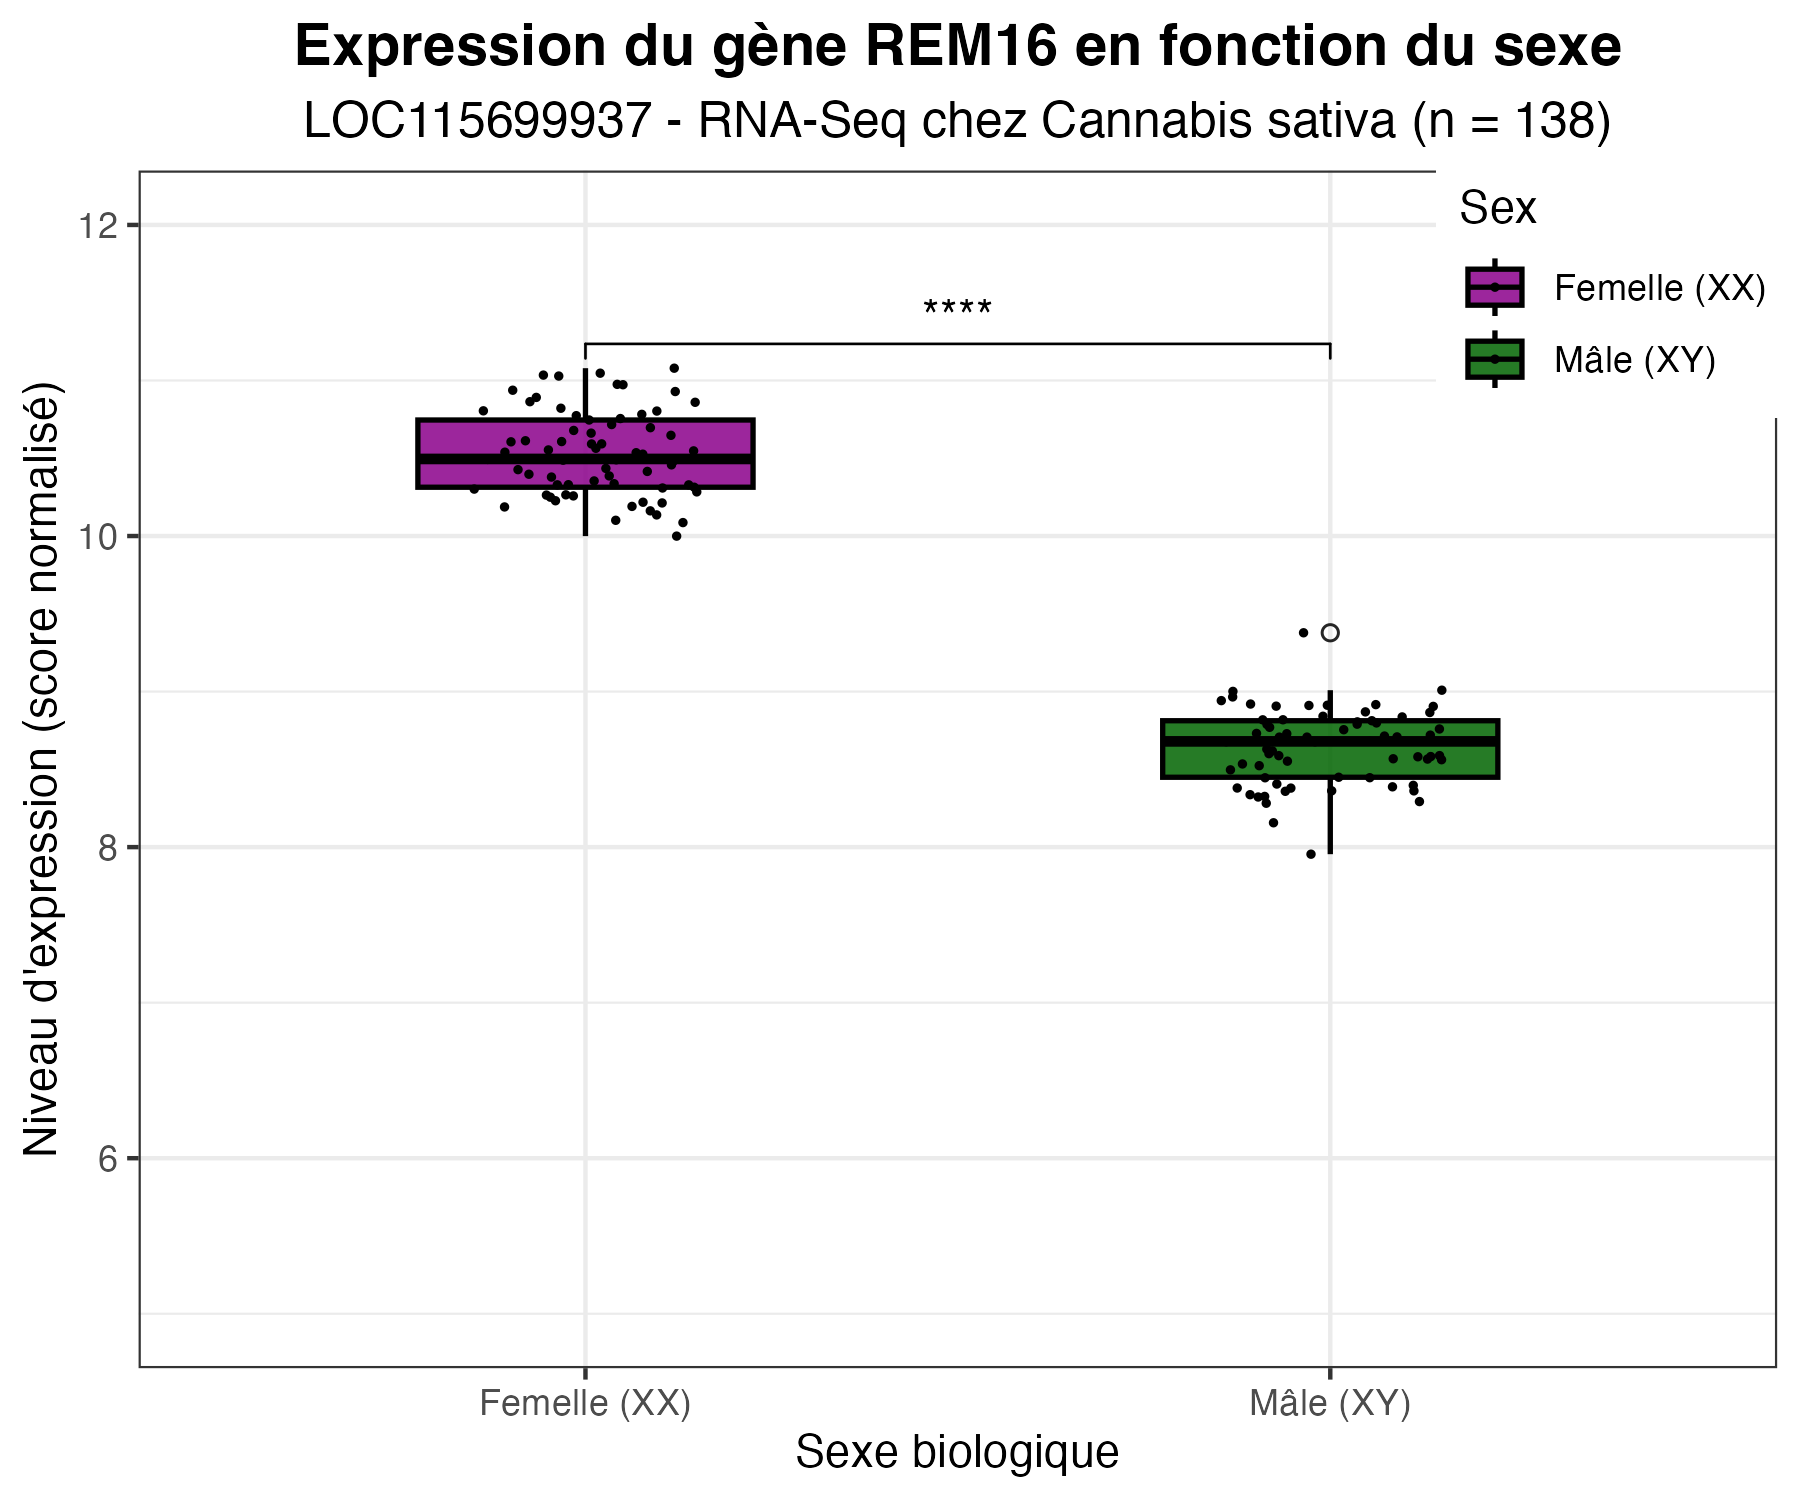
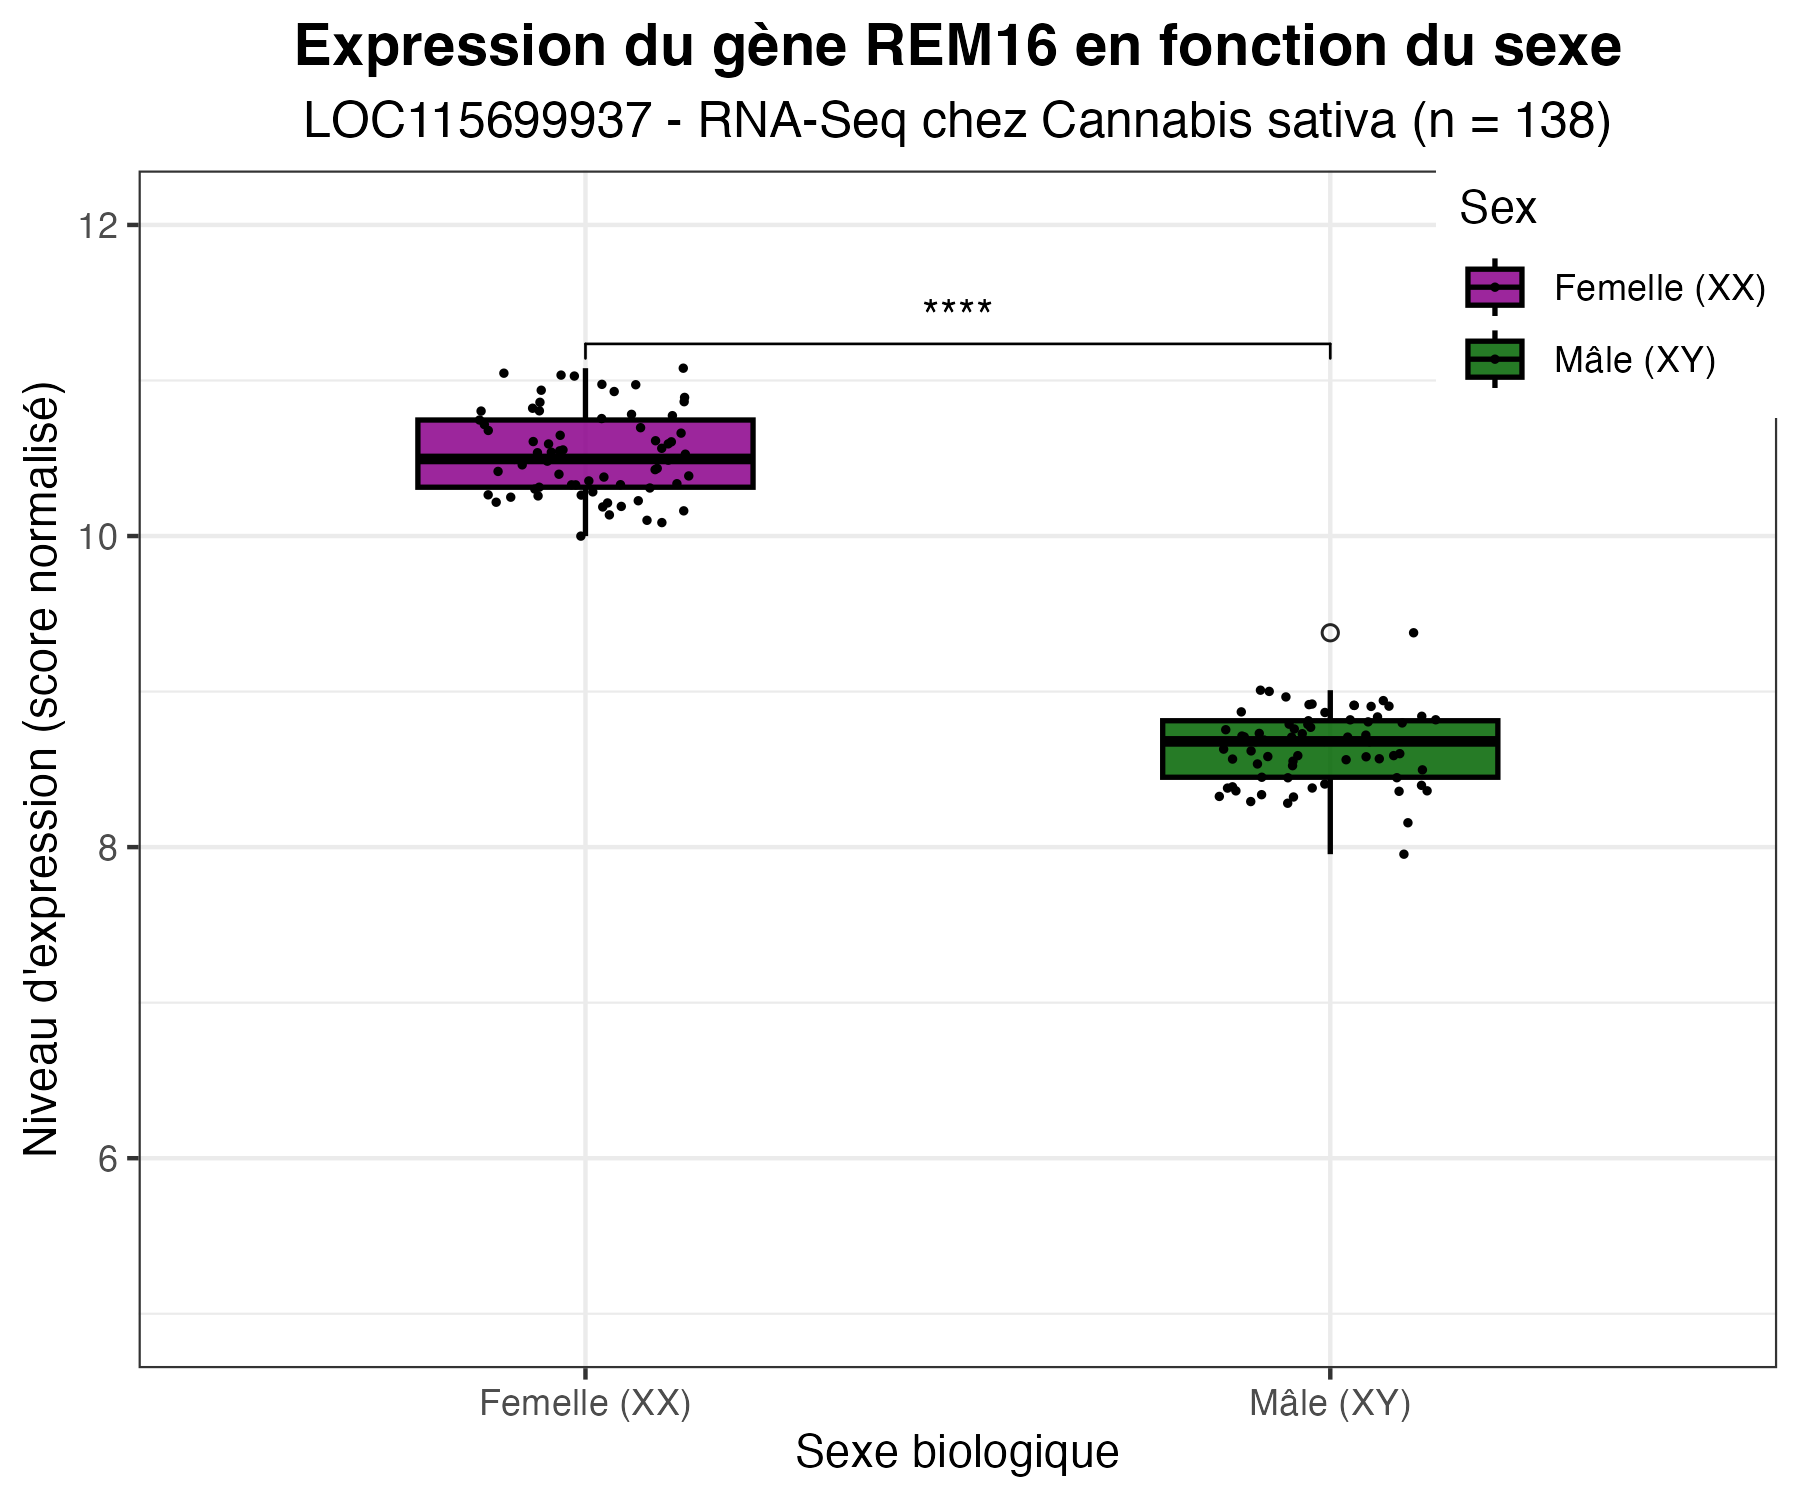
docs: update documentation, R script, and add gitignore file

Changed region(s): [[0.2489, 0.2453, 0.4044, 0.368], [0.6844, 0.46, 0.8089, 0.552]]

diff --git a/Question_3/Fonctionnement_pipeline.md b/Question_3/Fonctionnement_pipeline.md
@@ -1,6 +1,6 @@
 # Fonctionnement du pipeline (Question 3)
 
-Ce document décrit les différentes étapes logiques et statistiques implémentées dans le script [`code/code_question_3.r`](../code/code_question_3.r) pour l'analyse des données transcriptomiques RNA-Seq de *Cannabis sativa*.
+Ce document décrit les différentes étapes implémentées dans le script [`code/code_question_3.r`](../code/code_question_3.r) pour l'analyse des données transcriptomiques de *Cannabis sativa*.
 
 ---
 
@@ -25,15 +25,15 @@ Ce document décrit les différentes étapes logiques et statistiques implément
   [ 2. Analyse Univariée ]        [ 3. Analyse Multivariée ]      [ 4. Criblage Global ]
     ├── Postulats statistiques      ├── Standardisation globale     ├── Tests t (20 500 gènes)
     │   (Normalité & Levene)        ├── ACP (prcomp, scale=TRUE)    ├── Correction FDR (B-H)
-    ├── Tests t bilatéraux          ├── PC1 : Effet tiers (bruit)   ├── Filtres : |Diff| > 1
-    └── Boxplots & Significativité  ├── PC2 : Sexe (p < 1e-20)      │             Padj < 0.05
+    ├── Tests t bilatéraux          ├── PC1 : Effet tiers           ├── Filtres : |Diff| > 1
+    └── Boxplots & Significativité  ├── PC2 : Sexe                  │             Padj < 0.05
           │                         └── Loadings (Top 50 gènes)     └── Focus REM16 / Mâle
           │                               │                               │
           ▼                               ▼                               ▼
   [ Figures Univariées ]          [ Figures Multivariées ]        [ Figure Volcano ]
     ├── REM16_exp_graph.png         ├── pca_graph.png               └── volcano_plot.png
-    ├── F1_exp_graph.png            └── combined_sex_markers_plot       (REM16 & LOC133032448)
-    └── exp_graph.png                   (Heatmap + Barplot)
+    ├── F1_exp_graph.png            └── combined_sex_markers_plot
+    └── exp_graph.png
 ========================================================================================
 ```
 
@@ -42,43 +42,34 @@ Ce document décrit les différentes étapes logiques et statistiques implément
 ## Étapes détaillées
 
 ### 1. Prétraitement et classification des échantillons
-- **Données sources :** Tableau d'expression RNA-Seq de 138 individus (mâles et femelles).
+- **Données sources :** Tableau d'expression de 138 individus (mâles et femelles).
 - **Classification automatique :** Fonction `female_male_classifer` identifiant le sexe à partir des identifiants des colonnes (`XX` $\rightarrow$ Femelle `F`, `XY` $\rightarrow$ Mâle `M`).
 - **Gestion des valeurs manquantes :** Imputation par la moyenne de la valeur manquante (`NA`) observée sur l'échantillon `011_XX` pour le gène *FT1* (`LOC115696989`).
 
-> 📝 **Notes / Observations à ajouter :**
-> - *(Ajoutez ici vos remarques sur le choix des données ou la qualité des échantillons)*
-
 ---
 
-### 2. Analyse univariée des gènes candidats (*REM16* et *FT1/F1*)
+### 2. Analyse des gènes candidats (*REM16* et *FT1/F1*)
 - **Gènes évalués :**
   - **REM16** (`LOC115699937`) : Marqueur méristématique floral.
   - **FT1 / F1** (`LOC115696989`) : Homologue de floraison (*Flowering Locus T*).
 - **Validation statistique des postulats :**
   - Évaluation de la distribution empirique.
   - Test d'homogénéité des variances de Levene (`car::leveneTest`) confirmant l'égalité des variances ($p > 0.05$).
-- **Comparaisons de moyennes :** Tests $t$ bilatéraux de Student avec affichage des niveaux de significativité (`stat_compare_means`).
+- **Comparaisons de moyennes :** Tests $t$ de Student avec affichage des niveaux de significativité (`stat_compare_means`).
 - **Sorties générées :**
   - [`figure/REM16_exp_graph.png`](../figure/REM16_exp_graph.png) : Boxplot montrant une nette surexpression chez les femelles.
   - [`figure/F1_exp_graph.png`](../figure/F1_exp_graph.png) : Boxplot montrant des niveaux comparables entre sexes.
   - [`figure/exp_graph.png`](../figure/exp_graph.png) : Vue combinée à 4 catégories.
 
-> 📝 **Notes / Observations à ajouter :**
-> - *(Ajoutez ici vos conclusions sur la significativité statistique de REM16 vs F1)*
-
 ---
 
-### 3. Analyse multivariée (ACP / PCA)
+### 3. Analyse exploratoire (ACP / PCA)
 - **Objectif :** Déterminer la structure globale du jeu de données et vérifier si le sexe biologique constitue la source principale de variance.
 - **Résultats de l'ACP (`prcomp`) :**
   - **PC1 :** Capture la plus grande part de variance mais n'est pas corrélée au sexe ($p > 0.05$ au test $t$). Elle reflète un effet biologique tiers (ex. type de tissu méristématique vs végétatif ou stade de maturité).
   - **PC2 :** Sépare significativement les sexes ($p < 10^{-20}$ au test $t$).
 - **Sortie générée :**
   - [`figure/pca_graph.png`](../figure/pca_graph.png) : Plan factoriel PC1 vs PC2 avec ellipses normales de confiance à 95 %.
-
-> 📝 **Notes / Observations à ajouter :**
-> - *(Ajoutez ici vos hypothèses sur la nature du facteur capturé par PC1)*
 
 ---
 
@@ -92,28 +83,21 @@ Ce document décrit les différentes étapes logiques et statistiques implément
 - **Sortie générée :**
   - [`figure/combined_sex_markers_plot.png`](../figure/combined_sex_markers_plot.png) : Figure composite 2 panneaux.
 
-> 📝 **Notes / Observations à ajouter :**
-> - *(Ajoutez ici vos commentaires sur les gènes situés au sommet du classement PC2)*
-
 ---
 
-### 5. Criblage transcriptomique global & Volcano Plot
+### 5. Volcano Plot
 - **Méthodologie statistique :**
   - Tests $t$ de Welch appliqués indépendamment sur les **20 500 gènes**.
   - Ajustement des valeurs $p$ pour tests multiples par le taux de faux positifs (**FDR**, méthode Benjamini-Hochberg).
   - Calcul de la différence moyenne d'expression ($\Delta = \bar{X}_{Femelles} - \bar{X}_{Mâles}$).
 - **Seuils décisionnels :**
   - $|\Delta| > 1.0$ (changement d'expression biologique significatif).
-  - $p_{\text{adj}} < 0.05$ (seuil de significativité statistique rigoureux).
-- **Observation clé :**
-  - *REM16* ressort comme le gène le plus significativement surexprimé chez les femelles (valeur de $-\log_{10}(p_{\text{adj}})$ maximale et amplitude d'effet élevée).
+  - $p_{\text{adj}} < 0.05$ (seuil de significativité).
+- **Observation :**
+  - *REM16* ressort comme le gène le plus significativement surexprimé chez les femelles.
   - Le gène *LOC133032448* ressort comme le marqueur mâle opposé le plus significatif.
 - **Sortie générée :**
   - [`figure/volcano_plot.png`](../figure/volcano_plot.png) : Nuage de points annoté mettant en valeur *REM16* et *LOC133032448*.
-
-> 📝 **Notes / Observations à ajouter :**
-> - *(Ajoutez ici votre interprétation du rôle de REM16 et LOC133032448 en vue de la Question 4)*
-
 ---
 
 ## Figures produites

diff --git a/README.md b/README.md
@@ -11,7 +11,7 @@
 
 ---
 
-**Navigation rapide :** [Description](#description) • [Structure](#structure) • [Questions & Livrables](#questions) • [Prérequis & Installation](#prerequis) • [Exécution du code](#execution)
+[Description](#description) • [Structure](#structure) • [Questions & Livrables](#questions) • [Prérequis & Installation](#prerequis) • [Exécution du code](#execution)
 
 ---
 
@@ -27,7 +27,7 @@ Ce répertoire contient l'ensemble des scripts, données, figures et réponses t
 .
 ├── README.md                           # Présentation générale du projet et instructions
 ├── Question_1/                         # Réponses et documents liés à la Question 1
-├── Question_2/                         # Analyse bibliographique et résumé critique
+├── Question_2/                         # Analyse de l'abstract
 │   └── 1_Abstract_500.md               # Version raccourcie de l'abstract (rétractations scientifiques)
 ├── Question_3/                         # Réponses et synthèses pour la Question 3
 │   └── Fonctionnement_pipeline.md      # Explication et fonctionnement du pipeline bio-informatique
@@ -37,13 +37,13 @@ Ce répertoire contient l'ensemble des scripts, données, figures et réponses t
 │   └── code_question_3.r               # Script R pour le traitement RNA-Seq, tests statistiques et graphiques
 ├── data/                               # Données brutes et prétraitées
 │   └── 2_Data_RNASeq_Cannabis_Sex.csv  # Données d'expression RNA-Seq (sexes XX vs XY)
-└── figure/                             # Graphiques générés en haute résolution (300 DPI)
+└── figure/                             # Graphiques générés
     ├── REM16_exp_graph.png             # Expression du gène REM16 selon le sexe
     ├── F1_exp_graph.png                # Expression du gène FT1 / F1 selon le sexe
     ├── exp_graph.png                   # Comparaison des 4 catégories (Locus & Sexe)
     ├── pca_graph.png                   # Analyse en composantes principales (PCA) des échantillons
     ├── volcano_plot.png                # Volcano plot de l'expression différentielle globale
-    └── combined_sex_markers_plot.png   # Figure combinée multi-panneaux des marqueurs de sexe
+    └── combined_sex_markers_plot.png   # Figure combinée multi-panneaux
 ```
 
 ---
@@ -54,7 +54,7 @@ Ce répertoire contient l'ensemble des scripts, données, figures et réponses t
 - Configuration du dépôt GitHub personnel, organisation des dossiers et suivi de version Git (`Question_1/README.md`).
 
 ### Question 2 : Analyse d'un abstract scientifique
-- Synthèse et condensation à moins de 500 mots d'une étude portant sur la dynamique temporelle et les causes des rétractations d'articles scientifiques indexés sur PubMed (`Question_2/1_Abstract_500.md`).
+- Synthèse et condensation à moins de 250 mots d'une étude portant sur la dynamique temporelle et les causes des rétractations d'articles scientifiques indexés sur PubMed (`Question_2/1_Abstract_500.md`).
 
 ### Question 3 : Analyse RNA-Seq et déterminisme sexuel (*Cannabis sativa*)
 - **Objectif :** Évaluer l'expression différentielle de gènes candidats selon le sexe biologique (Femelles XX vs Mâles XY) sur un jeu de 138 échantillons.
@@ -65,7 +65,7 @@ Ce répertoire contient l'ensemble des scripts, données, figures et réponses t
   1. Classification automatique des échantillons (XX vs XY).
   2. Vérification des postulats (tests de normalité et test d'homogénéité des variances de Levene avec `car`).
   3. Tests statistiques ($t$-test bilatéral, ANOVA et comparaisons multiples).
-  4. Visualisations de qualité publication avec `ggplot2` et `ggpubr` (boxplots, superposition des points individuels, et barres de significativité).
+  4. Visualisations avec `ggplot2` et `ggpubr`.
 
 ### Question 4 : Proposition
 - Conception d'un pipeline de sexage précoce à haut débit basé sur une RT-qPCR multiplexée ciblant le ratio d'expression `REM16` / `lncREM16` (`LOC133032448`) sur méristèmes apicaux (`Question_4/proposition.md`).
@@ -92,11 +92,20 @@ cd Olivier_V_DEVOIR1_repertoire
 ```
 
 2. **Lancer le script d'analyse :**
-À l'interieur de R, il vous suffira de metre la direction de travail au répertoire
-```bash
-setwd("")
-Rscript code/code_question_3.r
-```
 
-Les figures seront déja affichées et générées dans le dossier `figure/`.
+Le script peut être exécuté de deux façons, selon votre environnement de travail :
+
+* **Option A — Depuis un terminal (recommandé pour la reproductibilité) :**  
+  Assurez-vous d'être à la racine du dépôt, puis lancez :
+  ```bash
+  Rscript code/code_question_3.r
+  ```
+
+* **Option B — Depuis l'interface RStudio :**  
+  Ouvrez le script `code/code_question_3.r` dans RStudio, assurez-vous que le répertoire de travail (*working directory*) est bien positionné à la racine du dépôt (`Olivier_V_DEVOIR1_repertoire`), puis exécutez le script ou entrez :
+  ```r
+  source("code/code_question_3.r")
+  ```
+
+Les figures générées seront directement enregistrées dans le dossier `figure/`.
 

diff --git a/Question_1/README.md b/Question_1/README.md
@@ -1,3 +1,3 @@
 # Création du README.md (Question 1)
 
-Le README.md est bien initialiser 
+Le README.md est bien initialiser
